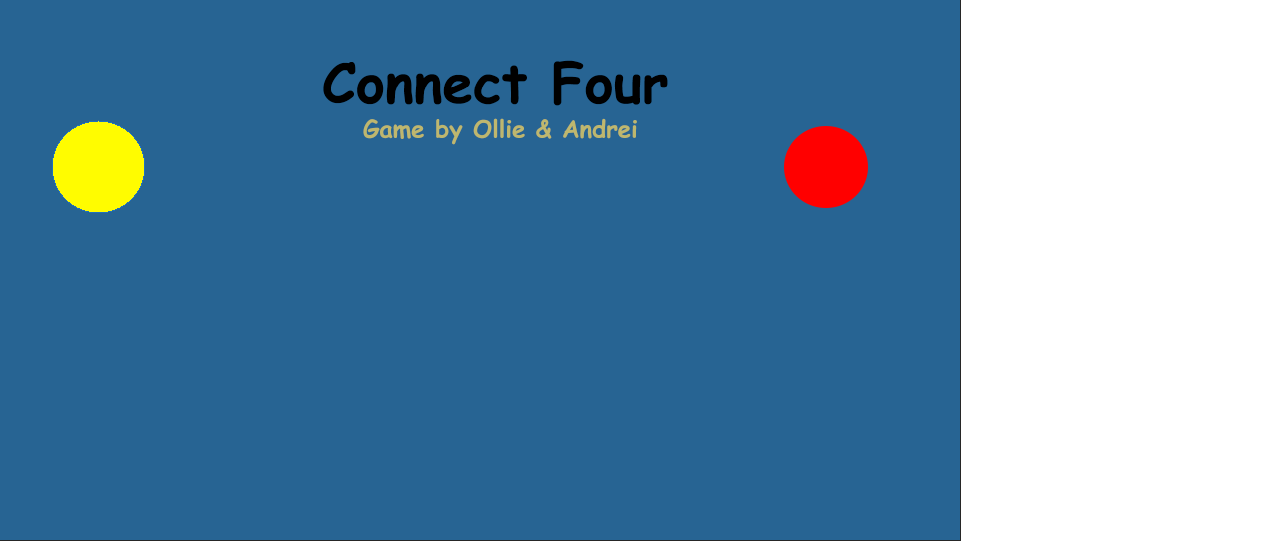
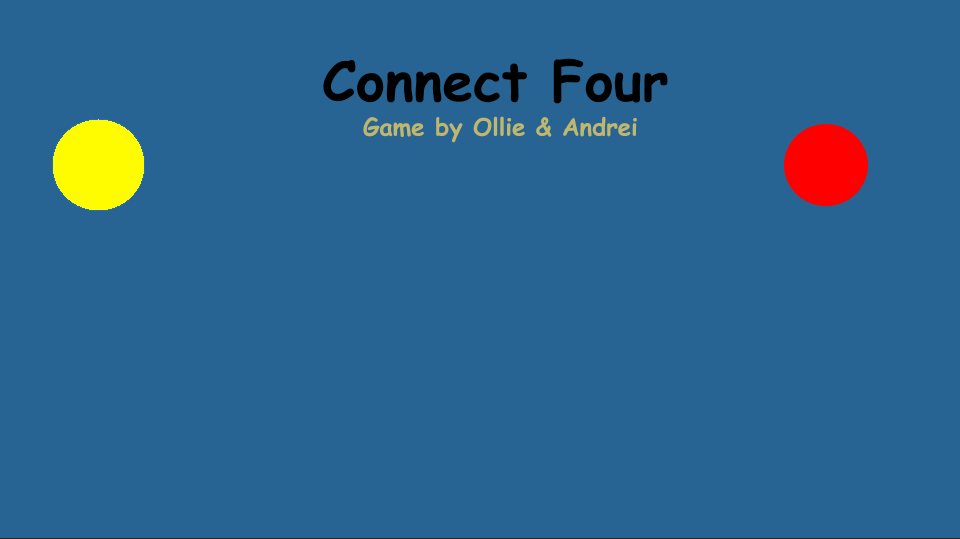
Andrei - Implemented game scenes, rendered sprites

Changed region(s): [[0.75, 0.0, 1.0, 1.0], [0.25, 0.0891, 0.7188, 0.3859], [0.0312, 0.2078, 0.1562, 0.4156]]

diff --git a/apps/ASGEGame/ASGEGame.cpp b/apps/ASGEGame/ASGEGame.cpp
@@ -1,5 +1,5 @@
 #include "ASGEGame.hpp"
-#include <Utilities/NetUtil.h>
+//#include <Utilities/NetUtil.h>
 
 /// Initialises the game.
 ASGENetGame::ASGENetGame(const ASGE::GameSettings& settings) : OGLGame(settings)
@@ -10,6 +10,7 @@ ASGENetGame::ASGENetGame(const ASGE::GameSettings& settings) : OGLGame(settings)
   client.connect("127.0.0.1", 31276, "Andrei");
 }
 
+/// Destroys the game.
 ASGENetGame::~ASGENetGame()
 {
   this->inputs->unregisterCallback(static_cast<unsigned int>(key_callback_id));
@@ -19,12 +20,13 @@ ASGENetGame::~ASGENetGame()
 bool ASGENetGame::init()
 {
   key_callback_id = inputs->addCallbackFnc(ASGE::E_KEY, &ASGENetGame::keyHandler, this);
-  background      = std::make_unique<SpriteComponent>(
-    renderer.get(), "data/background.png", ASGE::Point2D(1920, 1080));
+  background =
+    std::make_unique<SpriteComponent>(renderer.get(), "data/background.png", ASGE::Point2D(0, 0));
+  background->getSprite()->width(window_width);
+  background->getSprite()->height(window_height);
+  gameBoard();
   return false;
 }
-
-/// Destroys the game.
 
 /// Processes key inputs.
 void ASGENetGame::keyHandler(ASGE::SharedEventData data)
@@ -35,23 +37,54 @@ void ASGENetGame::keyHandler(ASGE::SharedEventData data)
   {
     signalExit();
   }
-  if (key->action == ASGE::KEYS::KEY_PRESSED)
+  if (gameState == MenuItem::MENU_GAME && key->key == ASGE::KEYS::KEY_ENTER)
   {
-    if (key->key >= ASGE::KEYS::KEY_SPACE && key->key <= ASGE::KEYS::KEY_GRAVE_ACCENT)
+    gameState = MenuItem::GAME;
+  }
+  if (gameState == MenuItem::GAME)
+  {
+    if (key->action == ASGE::KEYS::KEY_PRESSED)
     {
-      input_string += static_cast<char>(key->key);
+      if (key->key >= ASGE::KEYS::KEY_SPACE && key->key <= ASGE::KEYS::KEY_GRAVE_ACCENT)
+      {
+        input_string += static_cast<char>(key->key);
+      }
+      if (input_string.length() > 0)
+      {
+        if (key->key == ASGE::KEYS::KEY_BACKSPACE)
+        {
+          input_string.pop_back();
+        }
+        if (key->key == ASGE::KEYS::KEY_ENTER)
+        {
+          client.send(NetUtil::CHAT_MESSAGE, input_string);
+          input_string = "";
+        }
+      }
     }
-    if (input_string.length() > 0)
+  }
+}
+
+void ASGENetGame::gameBoard()
+{
+  auto x_pos            = 0.0F;
+  auto y_pos            = 0.0F;
+  const int BOARD_Y_POS = 75;
+
+  for (auto& board : game_board)
+  {
+    board = std::make_unique<SpriteComponent>(
+      renderer.get(), "data/connectblock.png", ASGE::Point2D(0, 0));
+    board->getSprite()->width(BOARD_WIDTH);
+    board->getSprite()->height(BOARD_HEIGHT);
+    board->getSprite()->xPos(x_pos);
+    board->getSprite()->yPos(y_pos + BOARD_Y_POS);
+    x_pos += board->getSprite()->width();
+
+    if (x_pos >= board->getSprite()->width() * 8)
     {
-      if (key->key == ASGE::KEYS::KEY_BACKSPACE)
-      {
-        input_string.pop_back();
-      }
-      if (key->key == ASGE::KEYS::KEY_ENTER)
-      {
-        client.send(NetUtil::CHAT_MESSAGE, input_string);
-        input_string = "";
-      }
+      x_pos = 0;
+      y_pos += board->getSprite()->height();
     }
   }
 }
@@ -64,6 +97,7 @@ void ASGENetGame::update(const ASGE::GameTime& us)
     gc->update(us.deltaInSecs());
   }
 }
+
 /// "Use fixed steps for physics"
 void ASGENetGame::fixedUpdate(const ASGE::GameTime& us)
 {
@@ -81,5 +115,14 @@ void ASGENetGame::render()
   if (gameState == MenuItem::GAME)
   {
     renderer->renderText(input_string, 128, 128);
+    gameRender();
+  }
+}
+
+void ASGENetGame::gameRender()
+{
+  for (auto& board : game_board)
+  {
+    board->render(renderer.get());
   }
 }

diff --git a/apps/ASGEGame/ASGEGame.hpp b/apps/ASGEGame/ASGEGame.hpp
@@ -15,10 +15,10 @@ class ASGENetGame : public ASGE::OGLGame
  public:
   enum class MenuItem
   {
-    MENU_GAME  = 1,
-    GAME       = 2,
-    LOBBY_GAME = 3,
-    EXIT_GAME  = 4
+    MENU_GAME = 0,
+    GAME      = 1,
+    //  LOBBY_GAME = 2,
+    //  EXIT_GAME  = 3
   };
 
   MenuItem gameState = MenuItem::MENU_GAME;
@@ -27,23 +27,34 @@ class ASGENetGame : public ASGE::OGLGame
   explicit ASGENetGame(const ASGE::GameSettings& settings);
 
   ~ASGENetGame() override;
+
   ASGENetGame(const ASGENetGame&) = delete;
+
   ASGENetGame& operator=(const ASGENetGame&) = delete;
 
-  void keyHandler(ASGE::SharedEventData data);
-  void update(const ASGE::GameTime& us) override;
-  void render() override;
-  void fixedUpdate(const ASGE::GameTime& us) override;
   // void disable(ASGE::Input* input);
   // void enable(ASGE::Input* input);
+  void fixedUpdate(const ASGE::GameTime& us) override;
+  void gameBoard();
+  void gameRender();
+  void keyHandler(ASGE::SharedEventData data);
+  void render() override;
+  void update(const ASGE::GameTime& us) override;
 
   bool init();
 
  private:
   std::vector<std::unique_ptr<GameComponent>> game_components;
   GCNetClient client;
-  int key_callback_id = -1; /**< Key Input Callback ID. */
-  std::string input_string;
 
+  int key_callback_id = -1; /**< Key Input Callback ID. */
+
+  float window_height = static_cast<float>(ASGE::SETTINGS.window_height);
+  float window_width  = static_cast<float>(ASGE::SETTINGS.window_width);
+  float BOARD_HEIGHT  = 124.0F;
+  float BOARD_WIDTH   = window_width / 8;
+
+  std::string input_string;
   std::unique_ptr<SpriteComponent> background;
+  std::array<std::unique_ptr<SpriteComponent>, 32 * 2> game_board;
 };

diff --git a/include/Utilities/NetUtil.h b/include/Utilities/NetUtil.h
@@ -13,7 +13,6 @@ class NetUtil
     CHAT_MESSAGE = 65,
     CHANGE_USERNAME,
     MAX_COMMAND_ID
-
   };
 };
 
